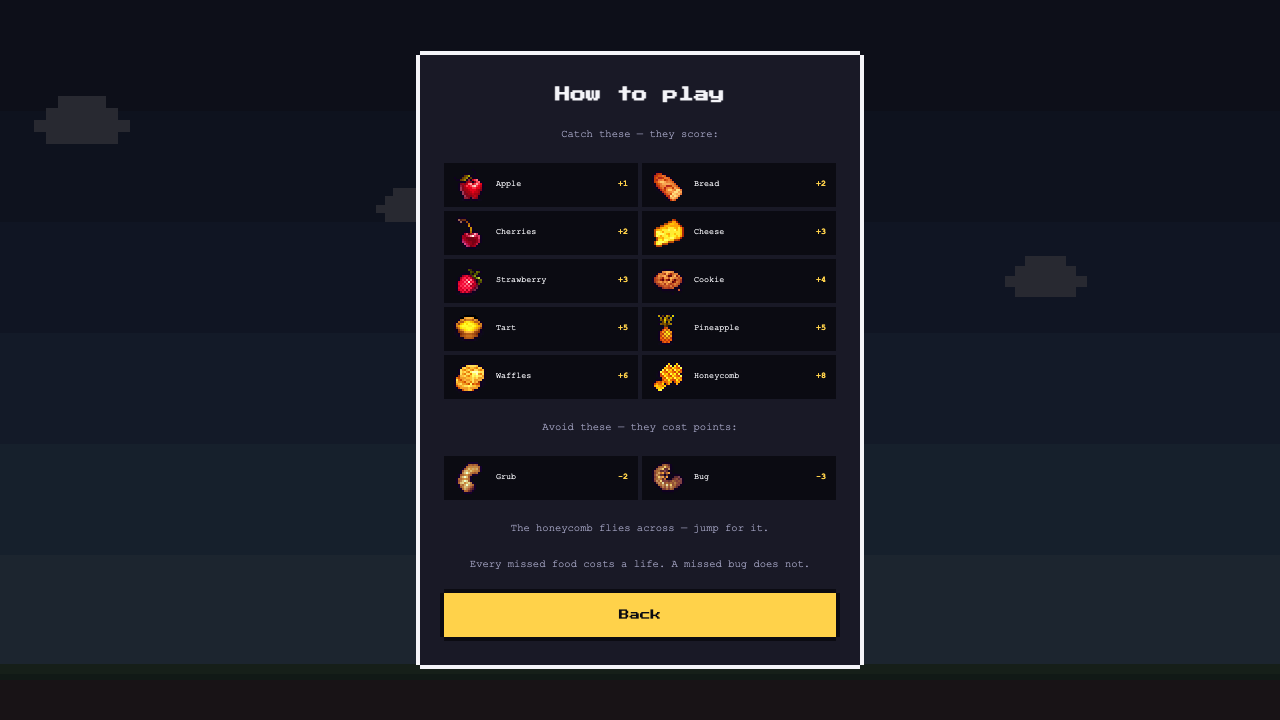
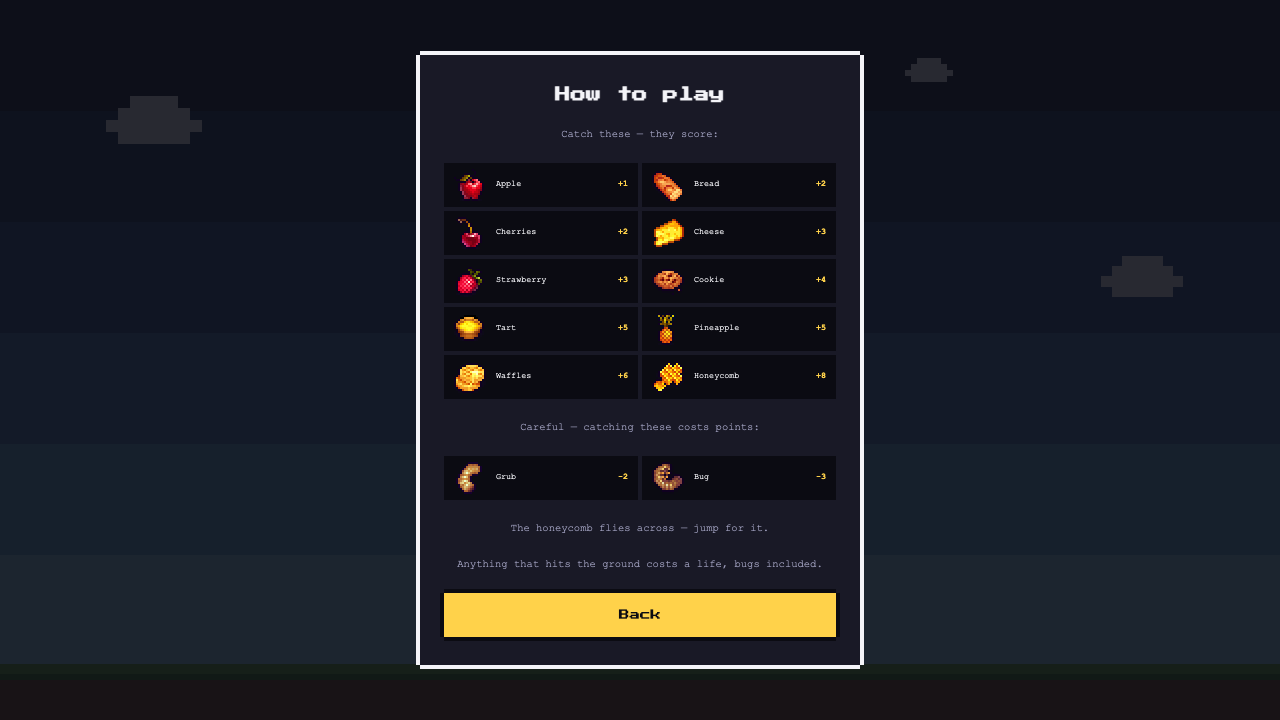
docs: describe hazards costing a life
Update the gameplay notes and retake the How to play screenshot, which still showed the old guide text.

diff --git a/README.md b/README.md
@@ -49,8 +49,8 @@ menus stay navigable from the keyboard.
 - ten lives, one lost for every missed item
 - five levels: each one shortens the fall time and the gap between spawns, and adds new food
 - twelve kinds of food, worth more as they get rarer (apple 1 → honeycomb 8)
-- **the grub and the bug subtract points**, so do not catch them. A missed grub costs no
-  life, because dodging it is the goal rather than a mistake
+- **the grub and the bug subtract points** when caught, and cost a life like anything else
+  when they reach the ground, so each one is a choice between points and a life
 - the **How to play** screen lists every kind with its value; it opens by itself on a first
   visit and stays reachable from the menu afterwards
 - every dozen seconds or so a honeycomb crosses the screen at a height you cannot reach from
